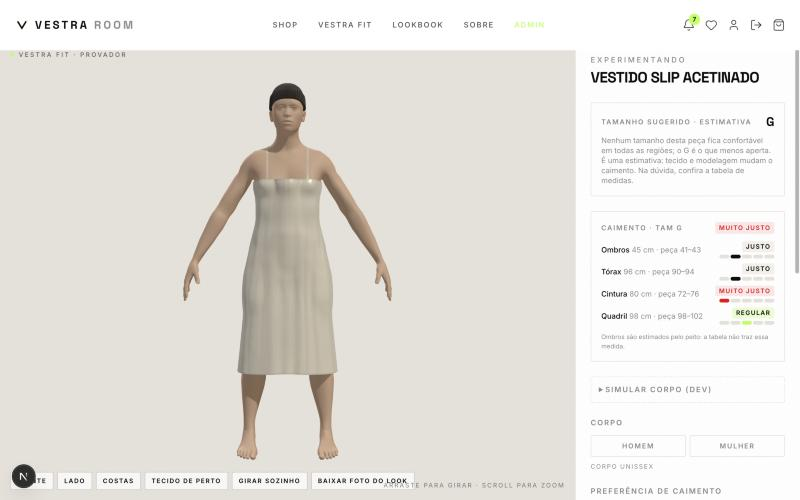
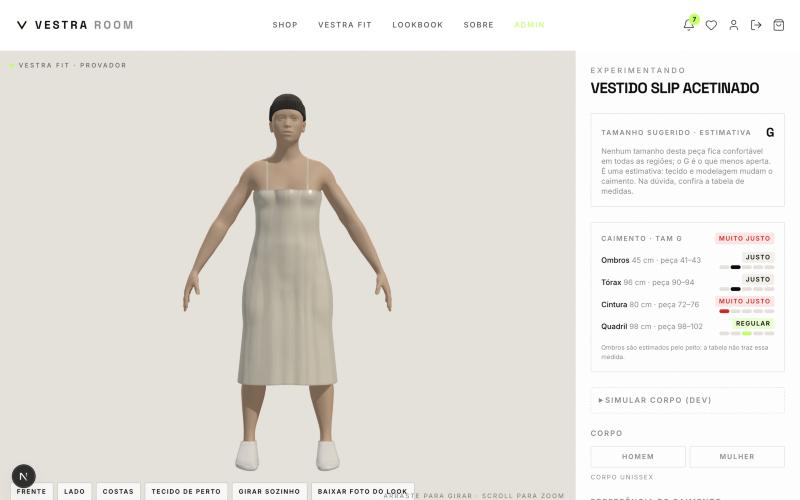
docs(apresentação): prints do provador refeitos com o tênis

diff --git a/docs/ROTEIRO-APRESENTACAO-26-10.md b/docs/ROTEIRO-APRESENTACAO-26-10.md
@@ -147,6 +147,7 @@ Usar um pedido **já entregue** do cliente.
 |---|---|
 | A roupa é simulada como tecido? | O caimento não: é um encaixe geométrico em cima do corpo do cliente, que roda no navegador sem travar. A aparência sim: cada peça tem material de tecido (trama, barra, pesponto e dobras). |
 | E num celular fraco? | Entra sozinho no modo leve (sem dobras, sombras e resolução dupla). Para comparar: `?leve=1` força o leve e `?leve=0` o completo. |
+| O tênis está à venda? | Não: é parte do avatar (antes ele ficava descalço). Foi feito no Blender a partir dos próprios pés do avatar e acompanha o pé de cada corpo. |
 | De onde vêm as medidas das peças? | Da tabela de medidas de cada produto (cadastrada no banco). |
 | Por que "estimativa"? | O avatar é paramétrico (medidas digitadas, não escaneamento). |
 | E as senhas e chaves? | Ficam fora do Git, em `.env`. As chaves do Stripe são de modo teste. |

diff --git a/docs/apresentacao/README.md b/docs/apresentacao/README.md
@@ -4,7 +4,7 @@ Um print por passo do [roteiro de 26/10](../ROTEIRO-APRESENTACAO-26-10.md),
 para usar se o 3D ou a internet falharem ao vivo. Tirados em 20/10/2026 no
 `npm run dev`, com a conta de admin de teste (por isso aparece "Admin" no
 topo da loja). Os do provador (02 a 05 e 13) foram refeitos em 21/10/2026,
-já com o tecido novo e o botão "Tecido de perto".
+já com o tecido novo, o botão "Tecido de perto" e o tênis no avatar.
 
 | Passo do roteiro | Arquivo | O que mostra |
 |---|---|---|
